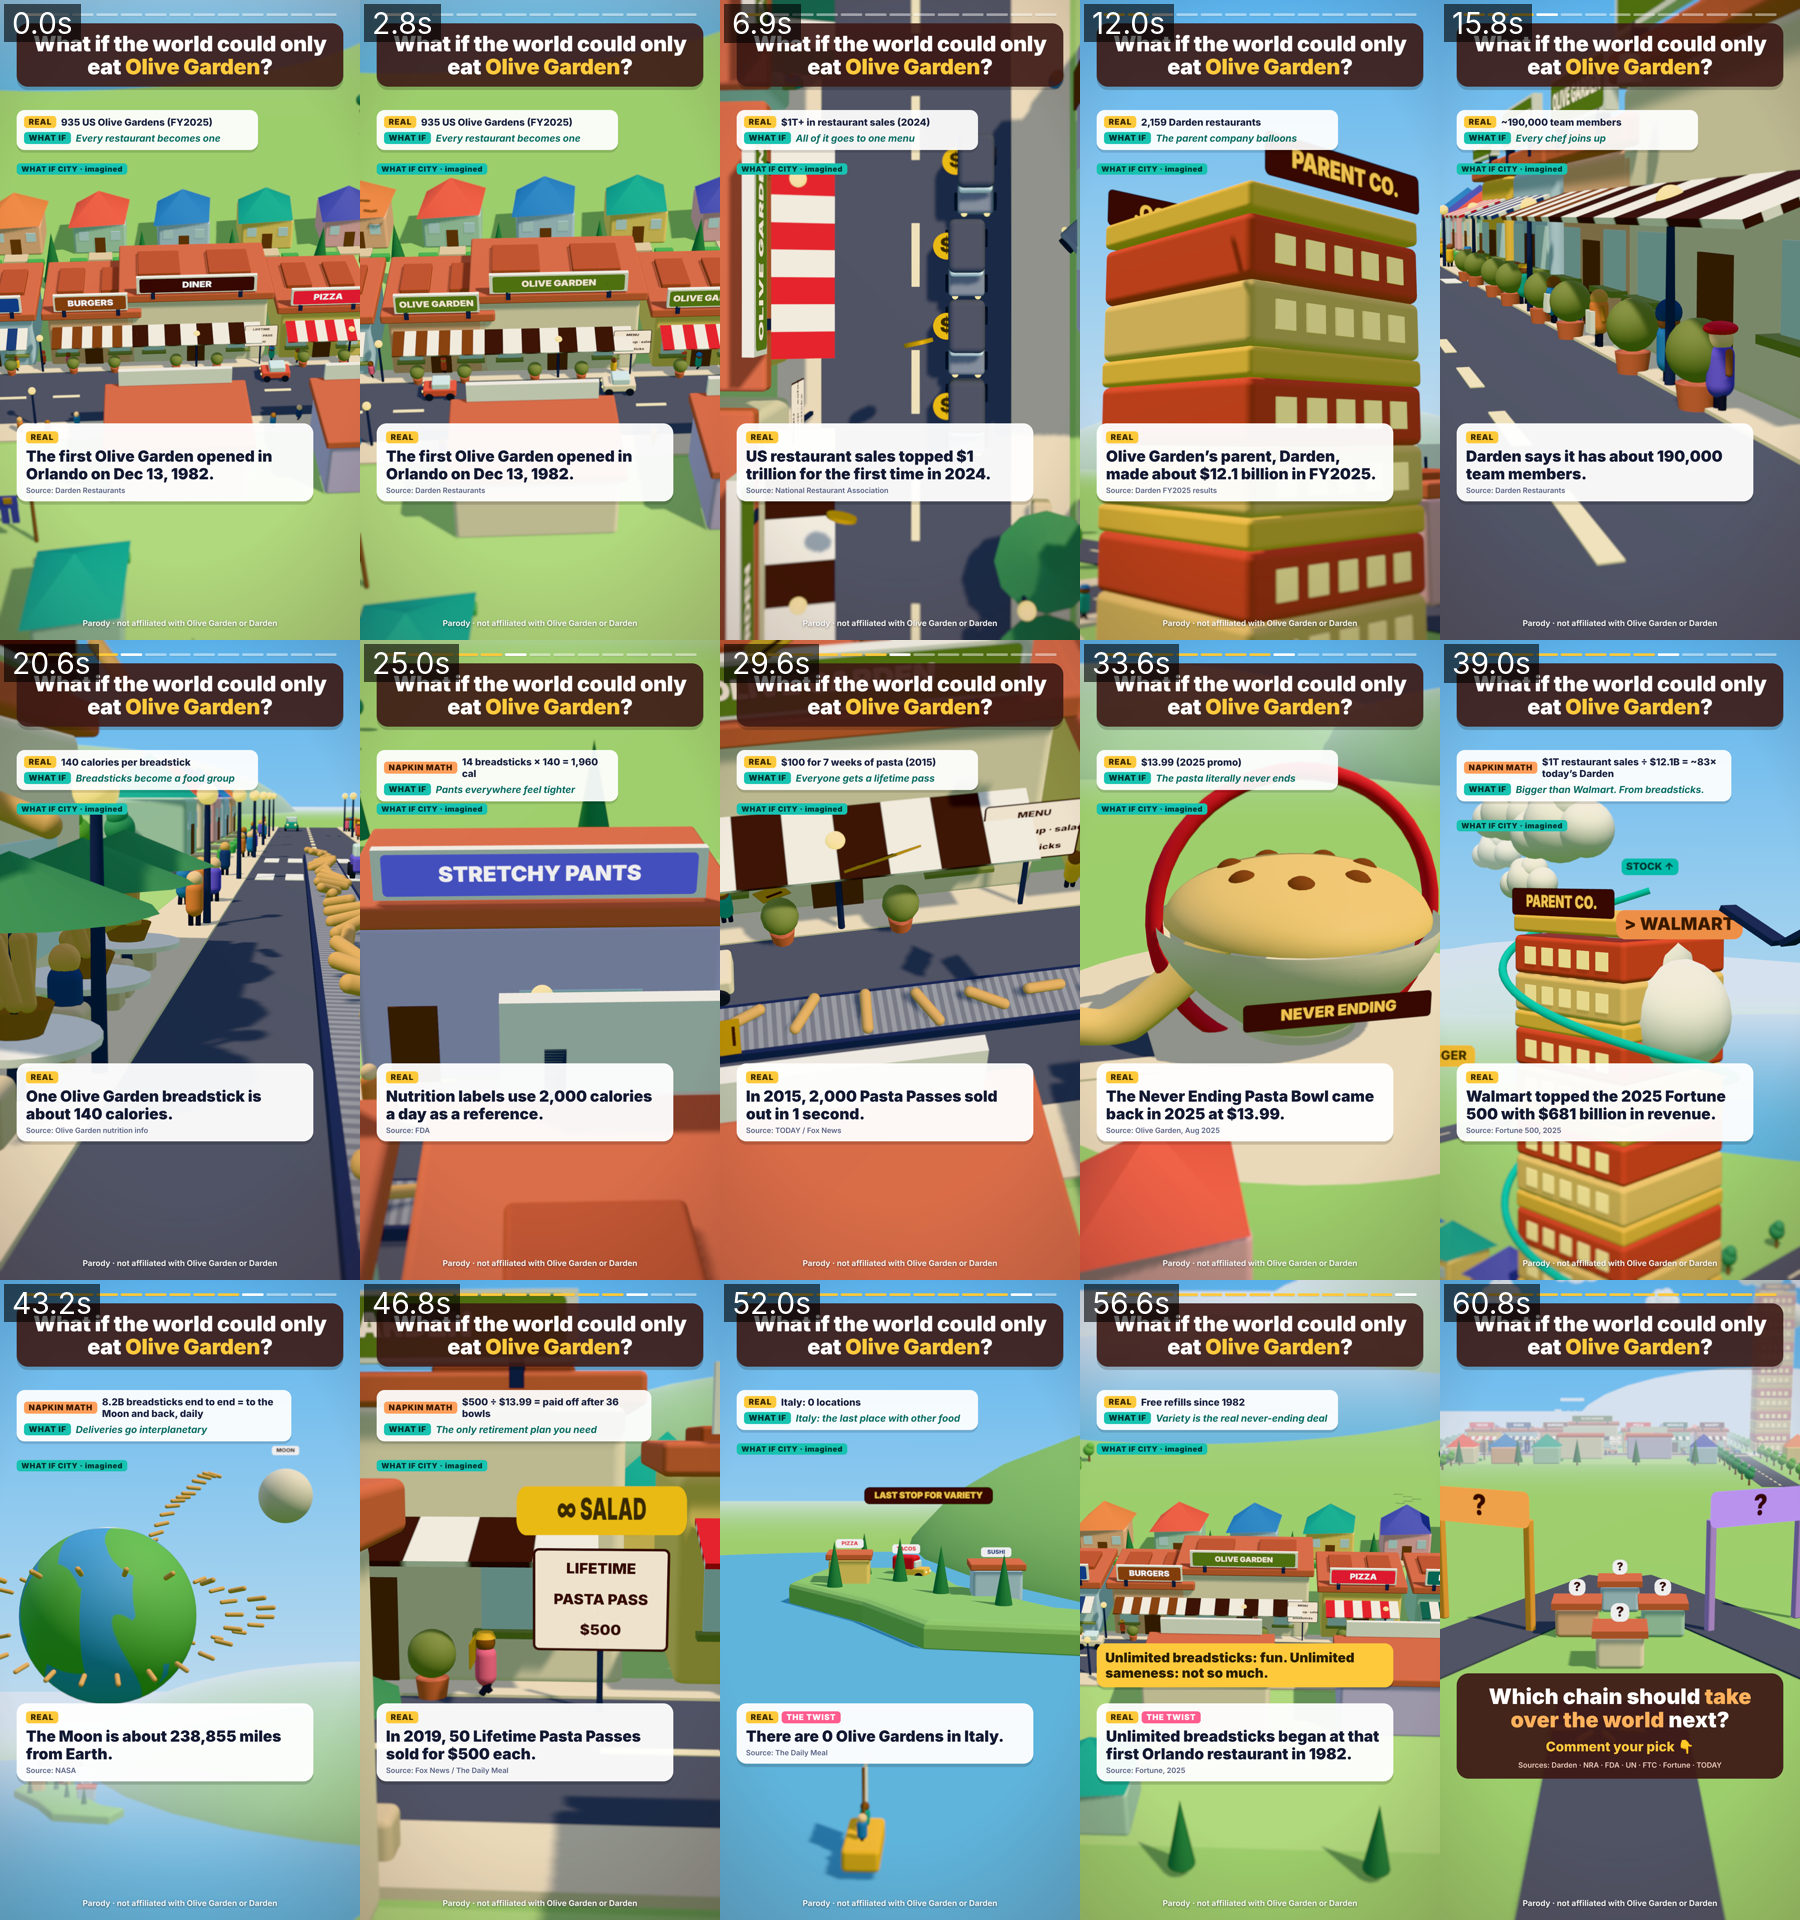
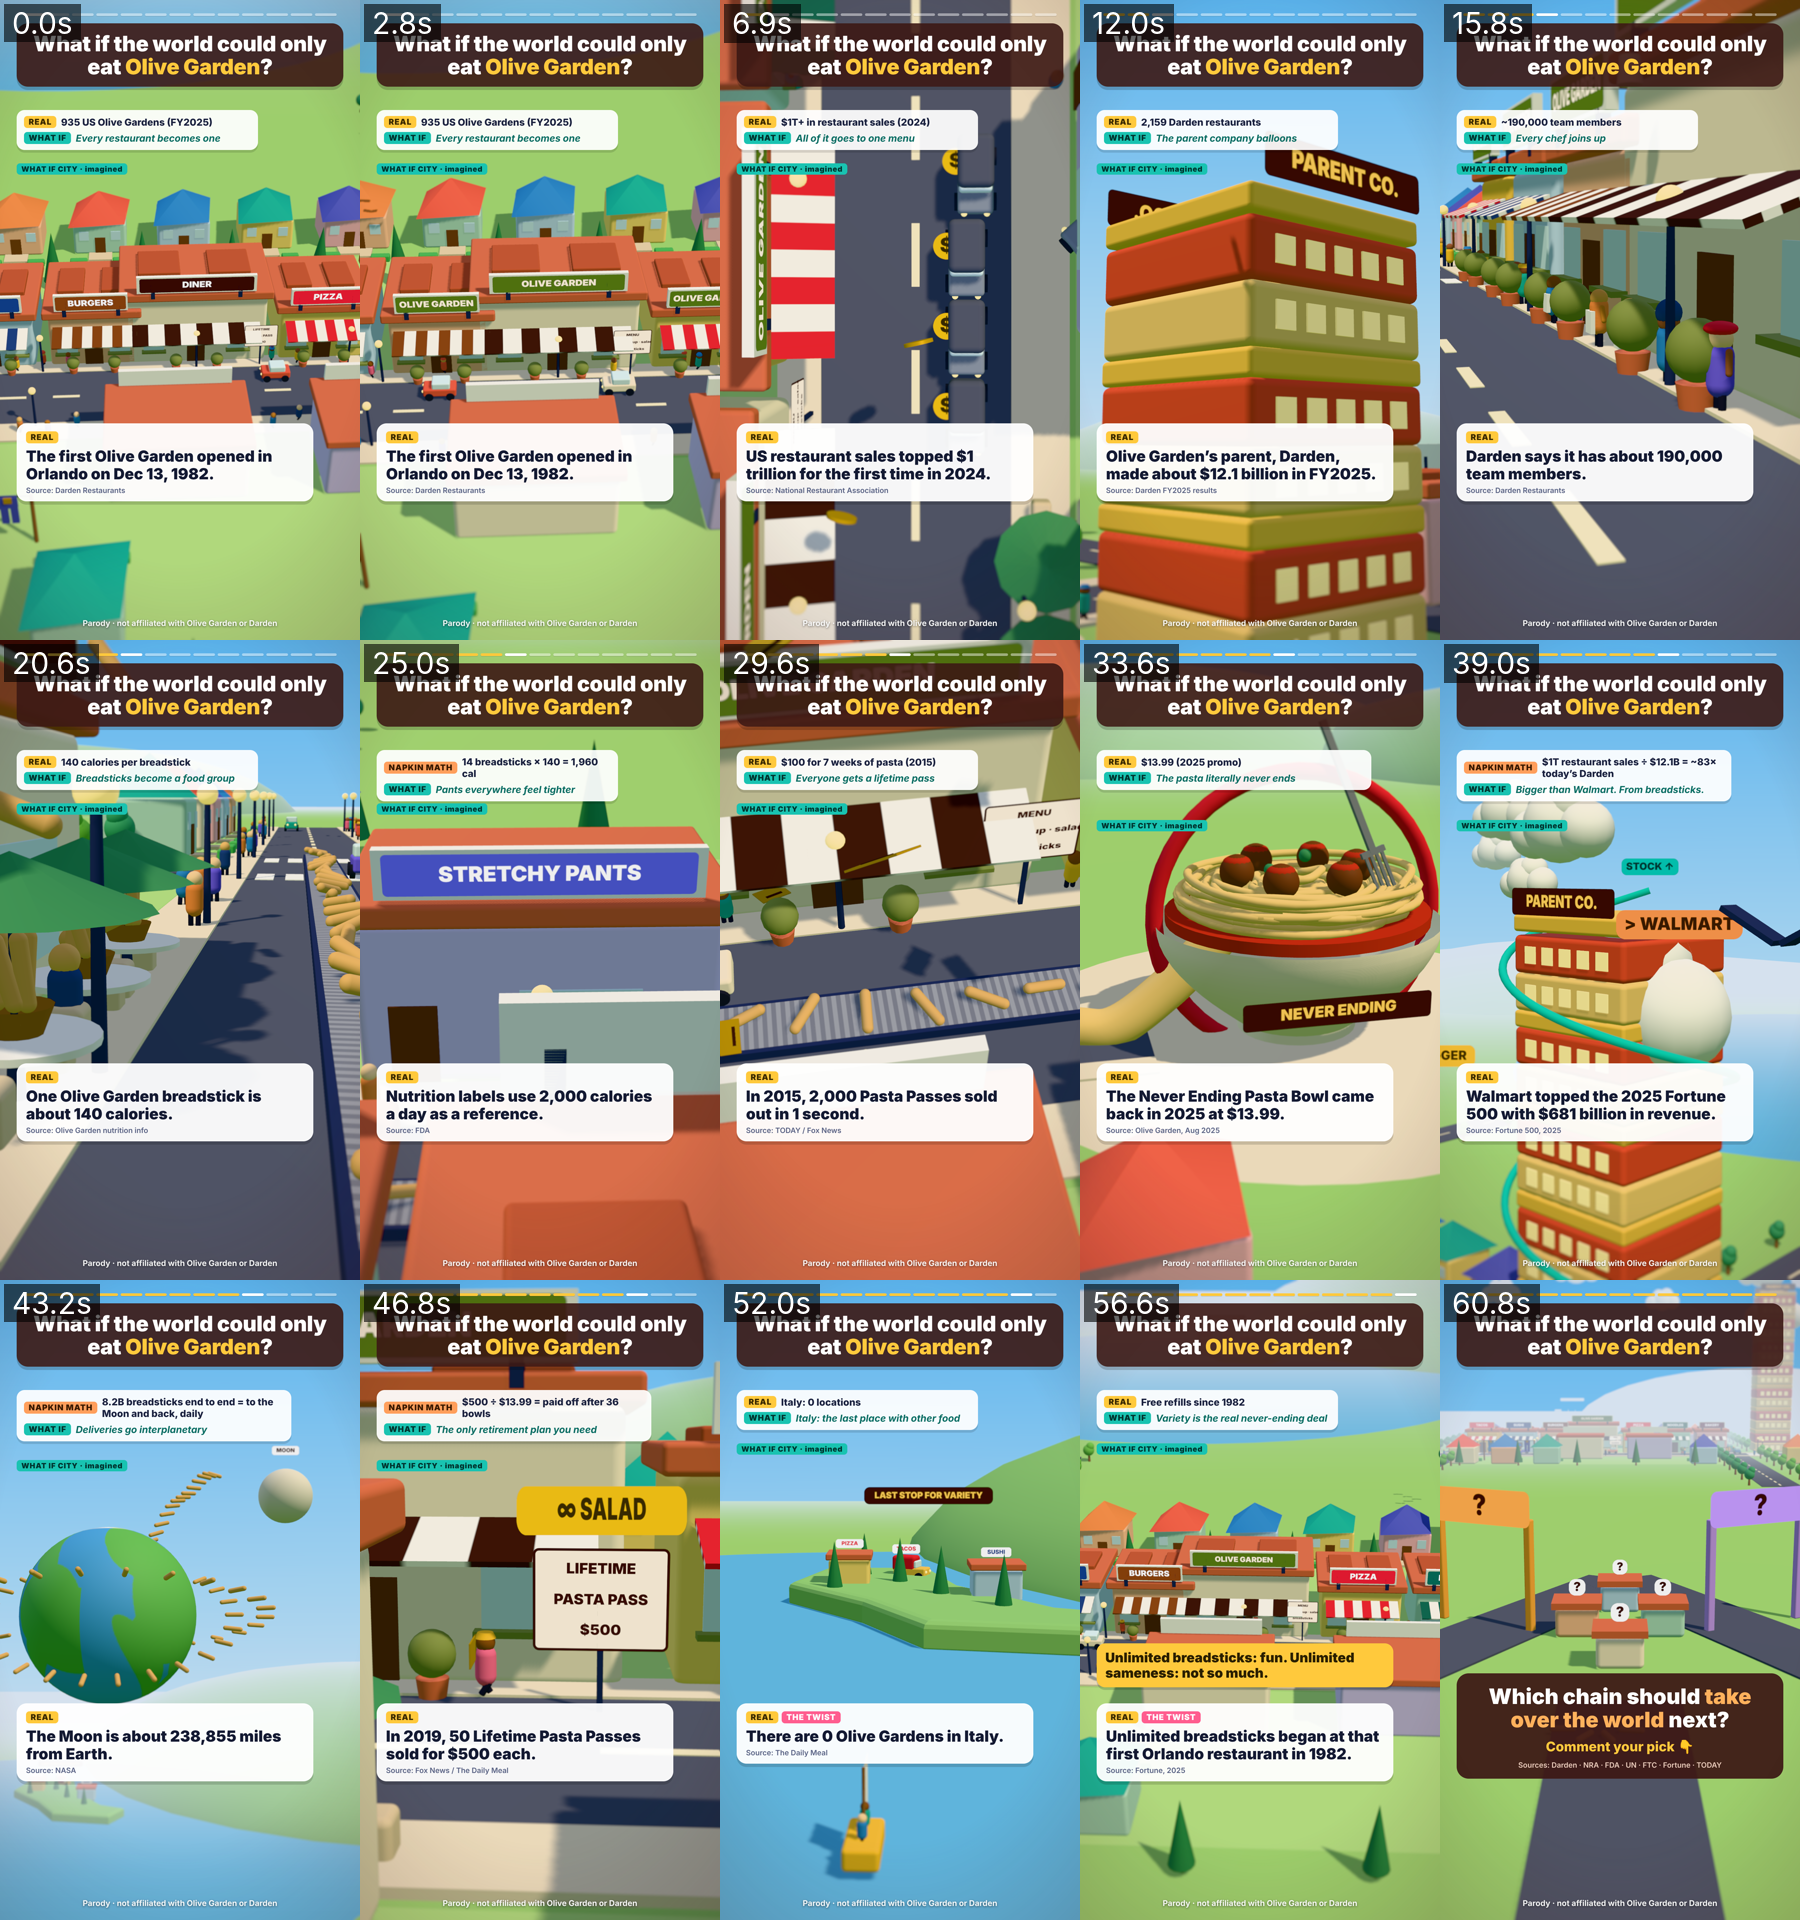
Olive Garden video: real spaghetti strands, saucy meatballs and a fork in the giant bowl
Claude-Session: https://claude.ai/code/session_01Nu2dujPctNvKWQcmHtFCqf

Changed region(s): [[0.5911, 0.375, 0.8089, 0.5]]

diff --git a/whatif-olive-garden/scene/city.js b/whatif-olive-garden/scene/city.js
@@ -330,8 +330,20 @@ const bowl = new THREE.Group(); scene.add(at(bowl, 52, 0, 0));
   const b = mesh(new THREE.LatheGeometry(pts, 48), M(CREAM, { side: THREE.DoubleSide })); bowl.add(b);
   bowl.add(at(mesh(new THREE.TorusGeometry(7.5, 0.45, 12, 48), M(TOMATO)), 0, 6, 0));
   bowl.add(at(mesh(new THREE.CylinderGeometry(3.2, 3.2, 0.6, 32), M(CREAM)), 0, 0.3, 0));
-  const pasta = mesh(new THREE.SphereGeometry(7.0, 32, 20, 0, Math.PI * 2, 0, Math.PI / 2), M(PASTA, { roughness: 0.6 })); pasta.scale.y = 0.45; bowl.add(at(pasta, 0, 5.6, 0)); bowl.userData.pasta = pasta;
-  for (let i = 0; i < 7; i++) bowl.add(at(mesh(new THREE.SphereGeometry(0.9, 16, 12), M('#8a4b2a')), Math.cos(i * 0.9) * 3.5, 8.0, Math.sin(i * 0.9) * 3.5));
+  // a nest of spaghetti: wobbly strands piled on a low sauce-red base, with saucy meatballs on top
+  const pasta = new THREE.Group(); bowl.add(at(pasta, 0, 5.6, 0)); bowl.userData.pasta = pasta;
+  const sauce = mesh(new THREE.CylinderGeometry(6.9, 6.9, 0.6, 48), M('#c73b2e', { roughness: 0.5 })); pasta.add(at(sauce, 0, 0.3, 0));
+  const strandMat = M(PASTA, { roughness: 0.55 });
+  const r3 = (sd => () => { sd = (sd * 1664525 + 1013904223) >>> 0; return sd / 4294967296; })(21);
+  for (let i = 0; i < 46; i++) {
+    const pts = []; let a = r3() * Math.PI * 2, rad = 1 + r3() * 5, h = 0.6 + r3() * 0.9;
+    for (let j = 0; j < 14; j++) { a += 0.45 + r3() * 0.5; rad += (r3() - 0.5) * 1.4; rad = Math.max(0.5, Math.min(6.2, rad)); h += (r3() - 0.4) * 0.35; h = Math.max(0.5, Math.min(2.6, h)); pts.push(V(Math.cos(a) * rad, h, Math.sin(a) * rad)); }
+    pasta.add(mesh(new THREE.TubeGeometry(new THREE.CatmullRomCurve3(pts), 60, 0.22, 8, false), strandMat));
+  }
+  for (let i = 0; i < 6; i++) { const mb = new THREE.Group(); mb.add(mesh(new THREE.SphereGeometry(0.9, 18, 14), M('#7a4326', { roughness: 0.7 }))); const drip = mesh(new THREE.SphereGeometry(0.72, 16, 12), M('#c73b2e')); drip.scale.y = 0.5; mb.add(at(drip, 0, 0.5, 0)); pasta.add(at(mb, Math.cos(i * 1.05) * 3.2, 2.6, Math.sin(i * 1.05) * 3.2)); }
+  pasta.add(at(mesh(new THREE.SphereGeometry(0.35, 10, 8), M('#4f9d69')), 0.5, 3.2, -0.4)); pasta.add(at(mesh(new THREE.SphereGeometry(0.3, 10, 8), M('#4f9d69')), -1.8, 2.9, 1.2)); // basil
+  const fork = new THREE.Group(); fork.add(at(box(0.35, 7, 0.35, M('#cfd6e0', { metalness: 0.6, roughness: 0.3 })), 0, 3.5, 0)); for (const fx of [-0.45, -0.15, 0.15, 0.45]) fork.add(at(box(0.16, 2.0, 0.16, M('#cfd6e0', { metalness: 0.6, roughness: 0.3 })), fx, -1.0, 0)); fork.add(at(box(1.3, 0.3, 0.3, M('#cfd6e0', { metalness: 0.6, roughness: 0.3 })), 0, 0, 0));
+  fork.rotation.z = 0.35; fork.rotation.x = -0.2; pasta.add(at(fork, 3.5, 3.6, 1.5));
   bowl.add(at(textPlane('NEVER ENDING', 9, 1.3, { bg: '#3c1814', fg: '#ffd166', font: '900 90px Inter', radius: 24 }), 0, 3.4, 7.2));
 }
 const river = new THREE.Mesh(new THREE.BufferGeometry(), M(PASTA, { roughness: 0.55 })); scene.add(river);
